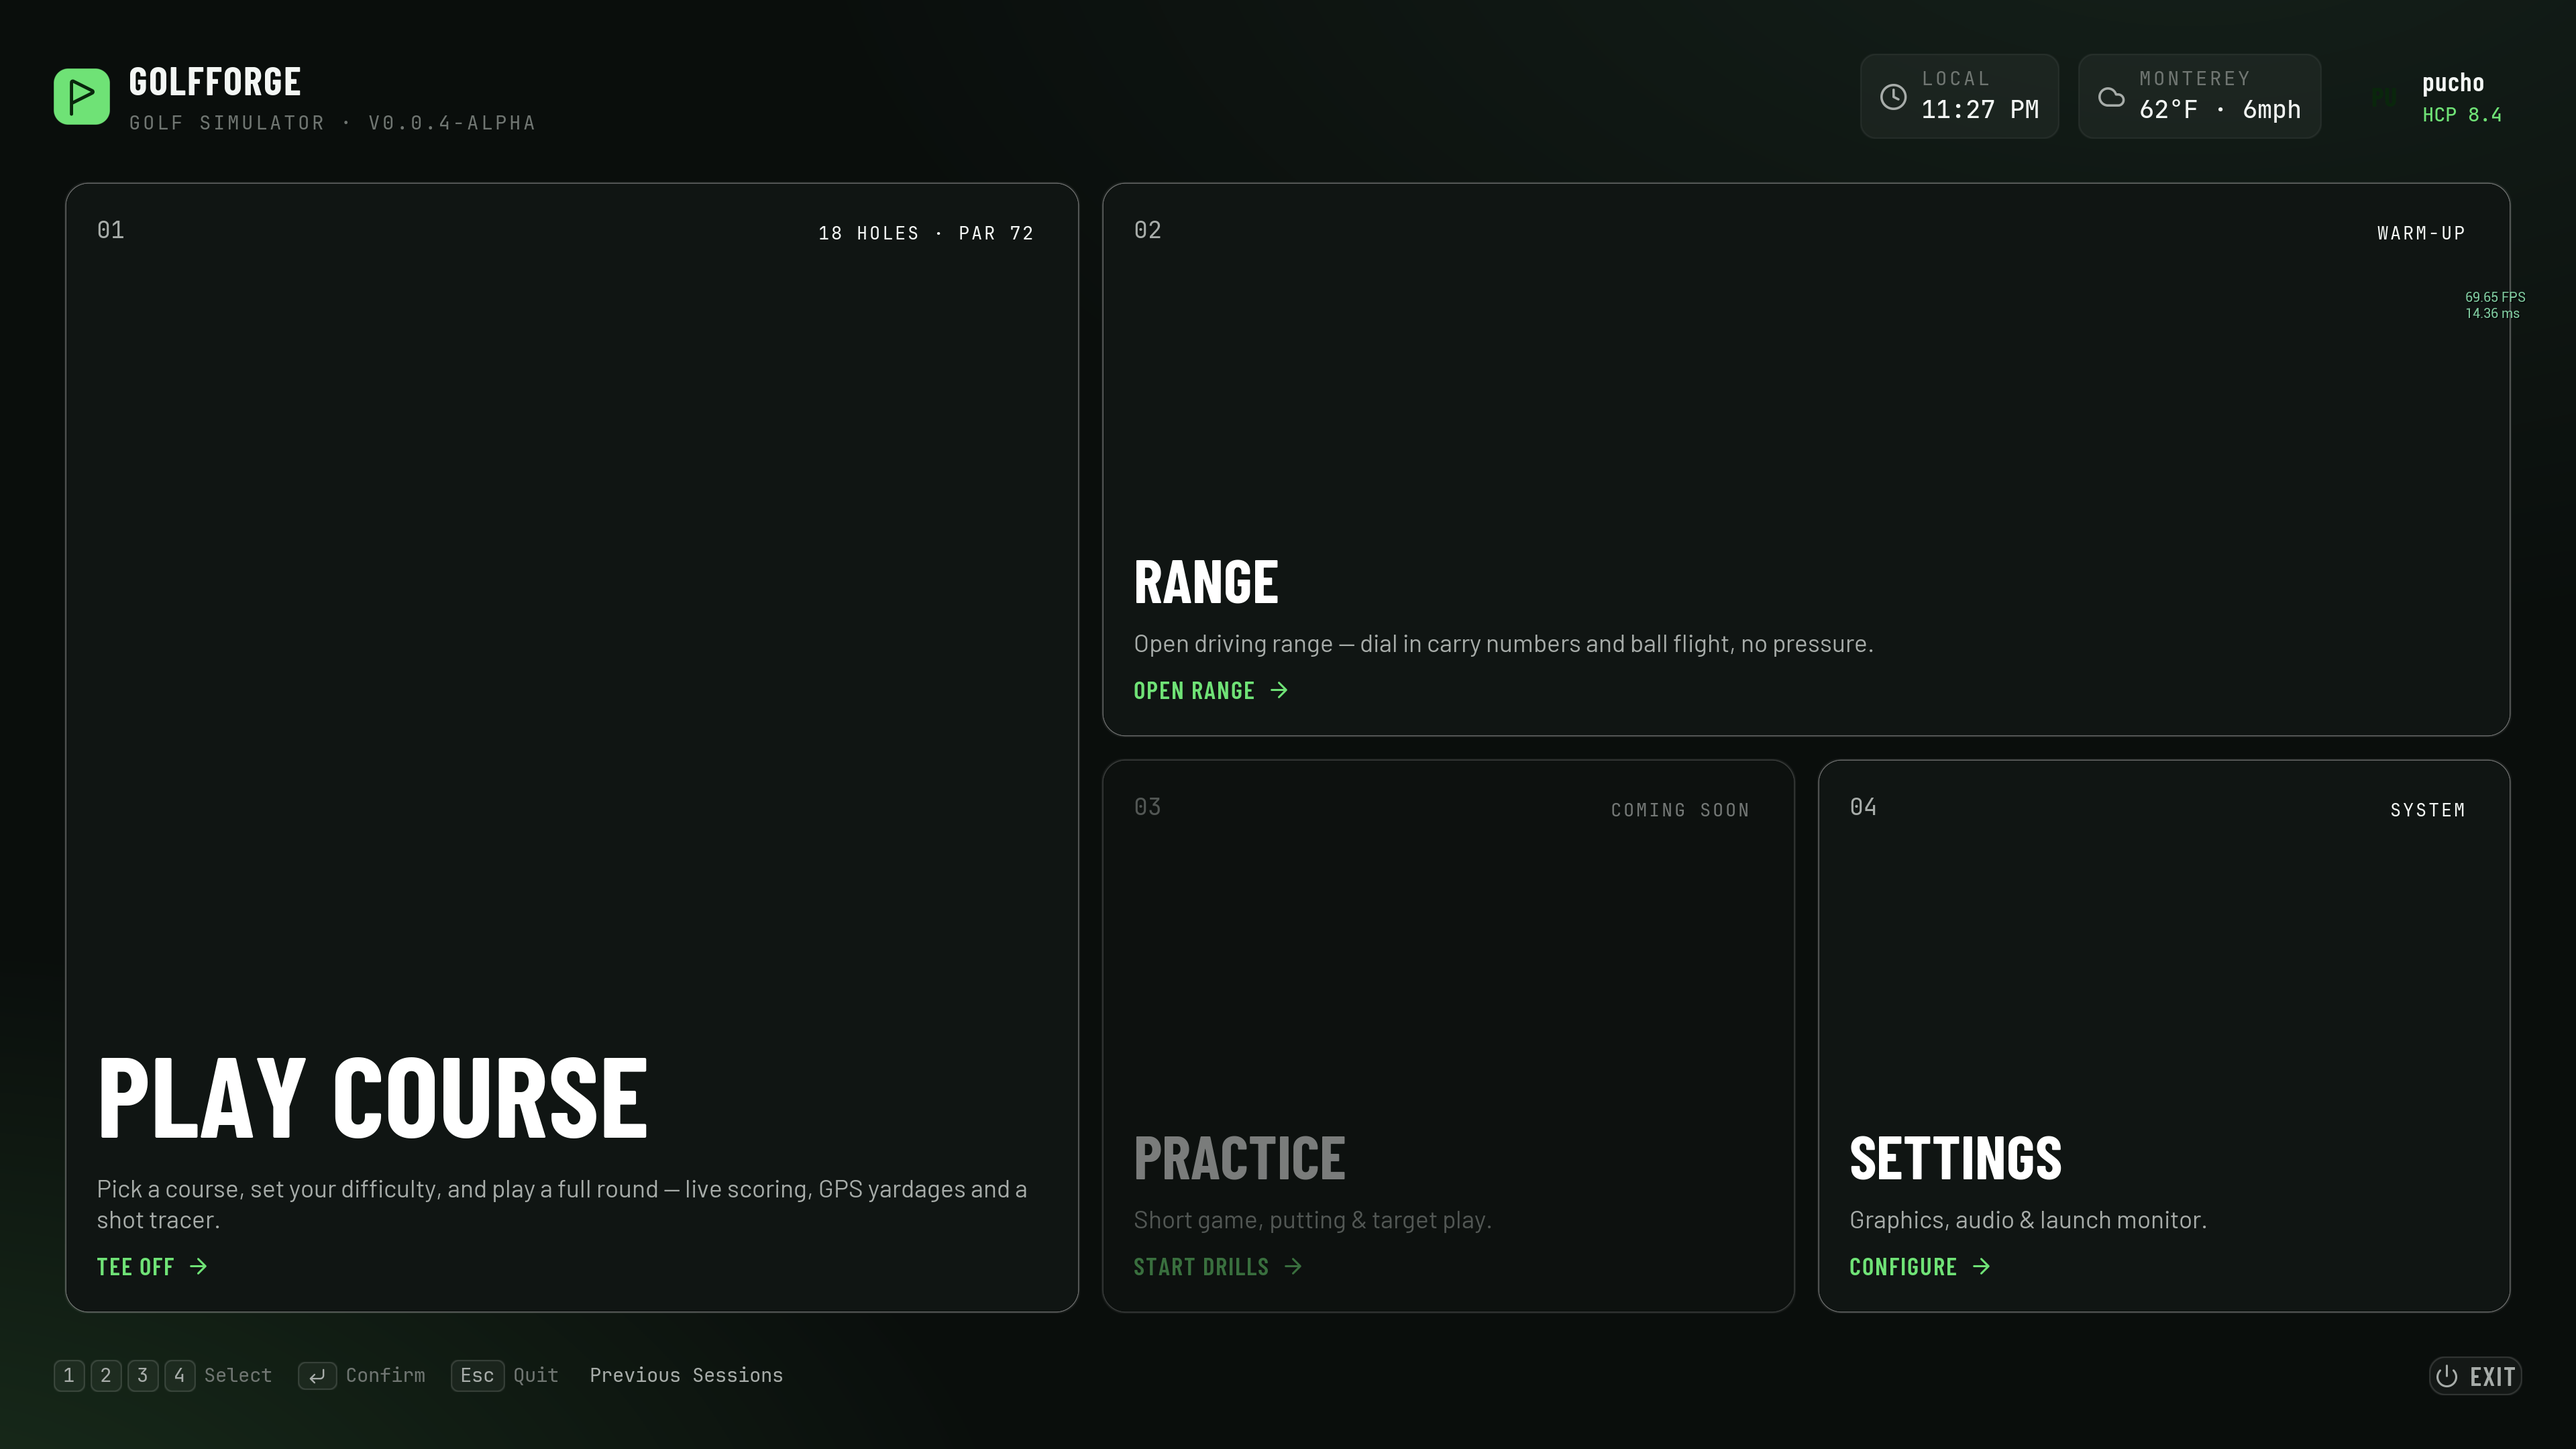
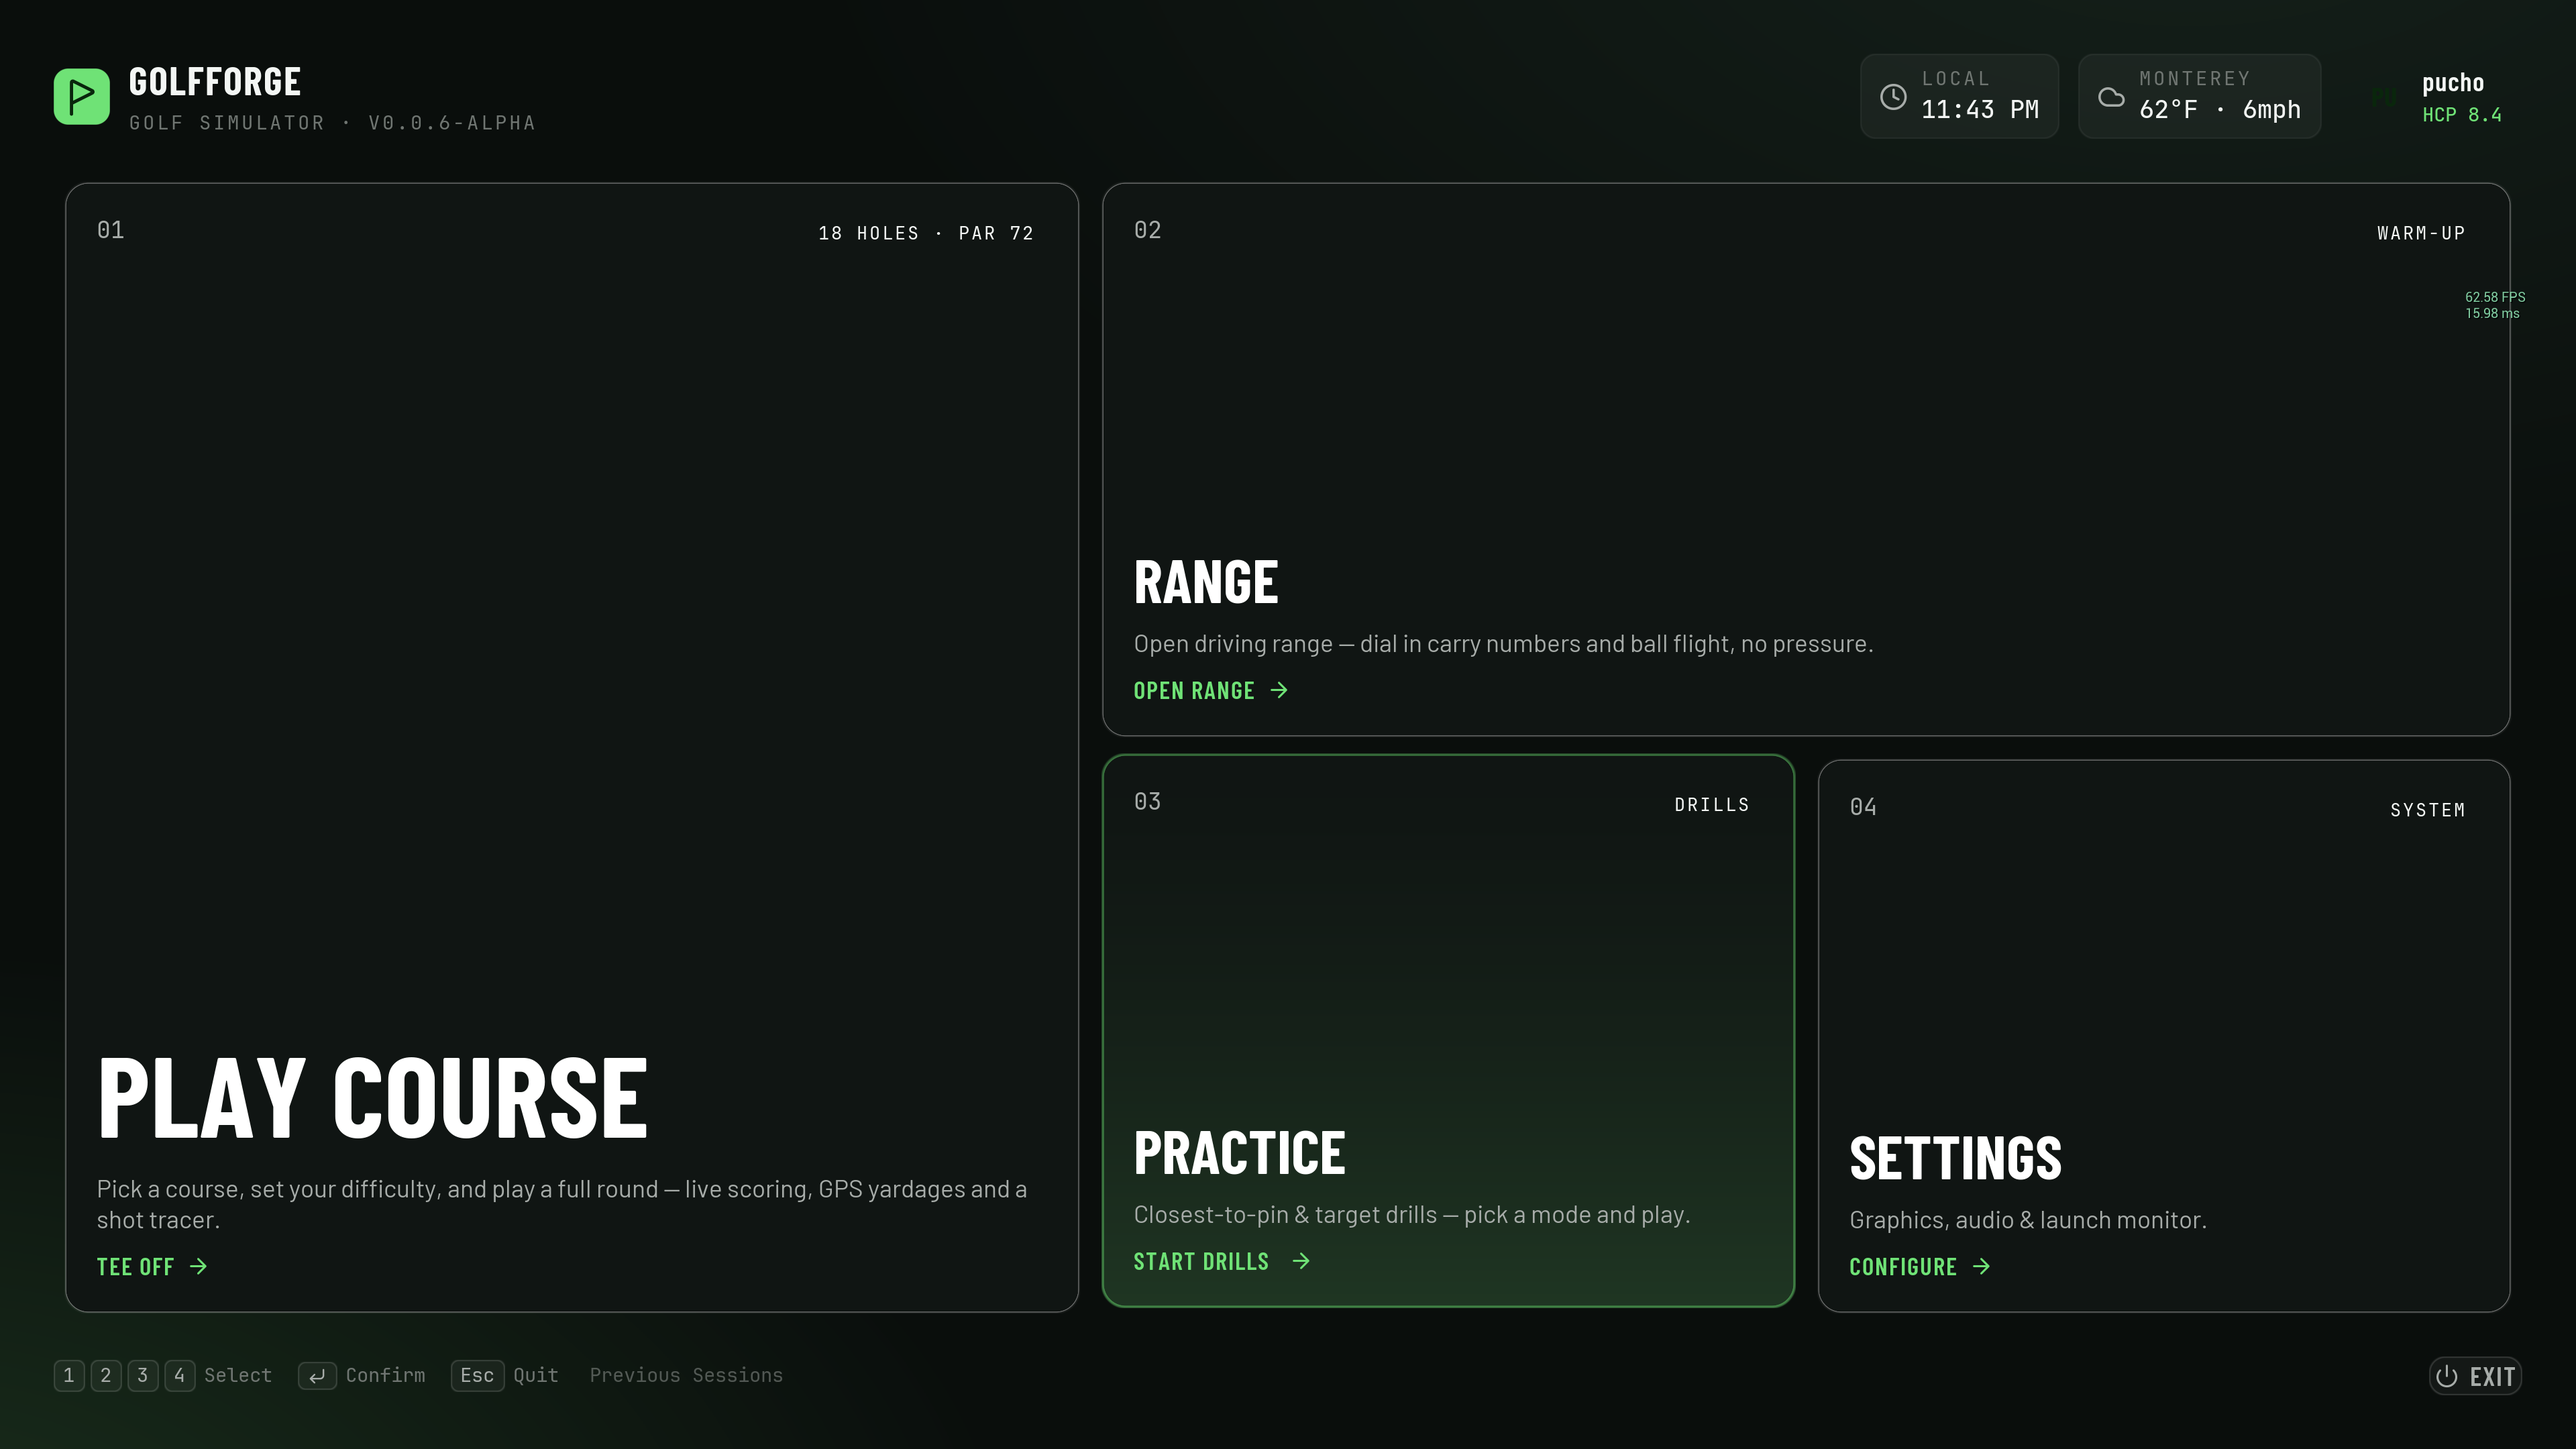
README: v0.0.6-alpha refresh — practice mode, bunkers, cheat sheet screenshots
Bumped status banner + Try-it to v0.0.6 (closest-to-pin practice + real bunkers). New shots: practice-setup.png (drill picker), bunker.jpg (greenside bunker), cheatsheet.jpg (reskinned Tab sheet). Re-shot mainmenu.png (Practice tile enabled) + range.jpg (no Mode dropdown). Coming-soon updated: closest-to-pin + bunkers shipped, 5 cooked tracks. 4K, scenes JPG q85.

Changed region(s): [[0.4062, 0.7755, 0.7188, 0.9306]]

diff --git a/README.md b/README.md
@@ -3,7 +3,7 @@
 Open-source, cross-platform golf simulator with AI-assisted course building, walking/treadmill
 integration, and a clean BLE-based hardware story for launch monitors.
 
-> **Status:** early, pre-1.0, and moving fast. **v0.0.5-alpha** is a visual + hardware step up on v0.0.4's UI rebuild. The course and range got an **art facelift**: distinct mown turf with **mowing stripes** (down-range on the fairway, a criss-cross checkerboard on the range), a real **pond-water** surface, a **mixed-species tree line**, golden-hour **atmosphere**, ambient **birdsong**, a fluttering branded **pin flag**, a dimpled **ball** with a strike sound, and a **textured target green** with a collar, hole cup and striped flagstick. On the hardware side, GolfForge now speaks **GSPro Open Connect** as a server, so you can bring your own launch monitor over its connector — **no GSPro subscription required** (Square Omni validated; more connectors in progress). You can still play a full **18-hole single-player round on a real LIDAR-cooked course with just a keyboard**. Expect rough edges.
+> **Status:** early, pre-1.0, and moving fast. **v0.0.6-alpha** adds a **closest-to-pin practice mode** — open **Practice** from the menu, pick a drill, and a pin spawns at a random distance for you to attack; each shot is scored by how close you finish (this shot, session best and average), with an optional putt-out. It also lands **real bunkers** — sculpted sand with a depressed floor and a raised lip, cooked from the course terrain. These sit on top of v0.0.5's **art facelift** (distinct mown turf with mowing stripes, pond water, a mixed-species tree line, golden-hour atmosphere, ambient birdsong, a fluttering branded pin flag, a dimpled ball, and a textured target green) and **GSPro Open Connect** launch-monitor support — bring your own monitor over its connector, **no GSPro subscription required** (Square Omni validated; more connectors in progress). You can still play a full **18-hole single-player round on a real LIDAR-cooked course with just a keyboard**. Expect rough edges.
 
 ## Why
 
@@ -20,10 +20,11 @@ attack:
 
 ## Try it
 
-Pre-built packages are attached to the latest [GitHub Release](https://github.com/GolfForge/golfforge/releases). v0.0.5-alpha ships with two playable surfaces:
+Pre-built packages are attached to the latest [GitHub Release](https://github.com/GolfForge/golfforge/releases). v0.0.6-alpha ships with three ways to play:
 
 - **Single-player round** — main menu → **Play Course** → a guided round-setup flow (pick the course, choose how many holes — full 18, front/back 9, or a custom set — and the hole-out rule) → land on hole 1's tee → play stroke play on a real LIDAR-cooked course. A glass HUD tracks your score, distance to pin and conditions; a scorecard caps the round. No launch monitor needed; the built-in keyboard swing meter handles it. _(The setup wizard also lays out game types, multiple players, handicaps and tee boxes, but those aren't wired into play yet — today's round is one player, stroke play. See [Coming soon](#coming-soon).)_
 - **Practice range** — fixed-distance target green with collar/flag, full 14-club bag, a moving pin, and launch-monitor support via [OpenFlight](https://github.com/jewbetcha/openflight) (Doppler radar), the **GSPro Open Connect** connectors (use your own launch monitor — see below), or a manual-shot dialog for hardware-free testing.
+- **Practice drills** — a **closest-to-pin** mode that gives the range a goal: open **Practice** from the main menu, pick a drill, and a pin spawns at a random distance (within a range you set, optionally offset left/right). Hit your shot and it's scored by distance from the pin — this shot, session best and average — with an optional putt-out. Islands and putting drills are stubbed in for later.
 
 ![Main menu — Play Course / Range / Practice / Settings bento, with a live clock + conditions cluster](docs/screenshots/mainmenu.png)
 
@@ -39,7 +40,19 @@ Then you're on the course:
 
 ![Mid-round on the course under the afternoon sky — glass HUD with the hole panel, conditions strip, hole map, launch-monitor readout and swing meter](docs/screenshots/coursehud.jpg)
 
+Courses carry **real bunkers** — sculpted sand with a depressed floor and a raised lip, cooked straight from the LIDAR terrain:
+
+![A greenside bunker on hole 1 — sculpted sand with a depressed floor and raised lip, cooked from the course terrain](docs/screenshots/bunker.jpg)
+
 ![Practice range — launch-monitor panel, swing meter and control bar over the tree-lined range](docs/screenshots/range.jpg)
+
+Practice mode turns range balls into a game — pick a drill and chase the pin:
+
+![Practice — the drill picker: closest-to-pin (random distances, scored by how close you finish), with island and putting drills coming later](docs/screenshots/practice-setup.png)
+
+A Tab cheat sheet lists the keyboard controls at any time:
+
+![Key bindings cheat sheet — club select, swing, aim, the camera toggle and more](docs/screenshots/cheatsheet.jpg)
 
 ![In-game settings — resolution, window mode, quality preset, upscaler (TSR / DLSS / XeSS) and render scale](docs/screenshots/options.jpg)
 
@@ -76,10 +89,10 @@ Optional, for the simulator-grade experience:
 
 In rough priority order:
 
-- **Practice modes.** Closest-to-the-pin with configurable distance range; TopGolf-style islands practice map; putting drills.
+- **Practice modes.** Closest-to-the-pin (configurable distance range, optional putt-out) **shipped in v0.0.6**; still to come — a TopGolf-style islands practice map and putting drills.
 - **Local multiplayer.** Stroke play with 2–4 humans on the same machine; future online peer-to-peer.
-- **More real-world courses.** The first cooked course (GolfForge Demo Black) is one shipped track; the pipeline can produce others — add yours via the [course pipeline](pipeline/README.md).
-- **Course-quality polish.** Bunker geometry (raised lip + depression), course-side lighting bake, 3D grass, night/low-light presets, water caustics. (Mowing stripes, distinct mown surfaces, pond water, mixed-species trees and golden-hour atmosphere landed in v0.0.5.)
+- **More real-world courses.** Five cooked tracks ship today (GolfForge Demo Black / Blue / Red / Green / Yellow); the pipeline can produce others — add yours via the [course pipeline](pipeline/README.md).
+- **Course-quality polish.** Course-side lighting bake, 3D grass, night/low-light presets, water caustics. (Bunkers with a depressed floor + raised lip landed in v0.0.6; mowing stripes, distinct mown surfaces, pond water, mixed-species trees and golden-hour atmosphere in v0.0.5.)
 - **Walking integration.** Bluetooth FTMS treadmill driver (build-it-yourself ESP32 reference design or any FTMS-compliant treadmill); compressed walk mode; eventual incline-matching from hole elevation profiles.
 - **More launch monitors.** Bringing up more GSPro Open Connect connectors against GolfForge (Square Omni confirmed so far; others in progress), plus native drivers for auth-gated devices (Rapsodo R50, Foresight Launch Pro, GCQuad).
 - **Mac/iPadOS GPU acceleration.** MetalFX upscaling for Apple Silicon (currently TSR-only).
